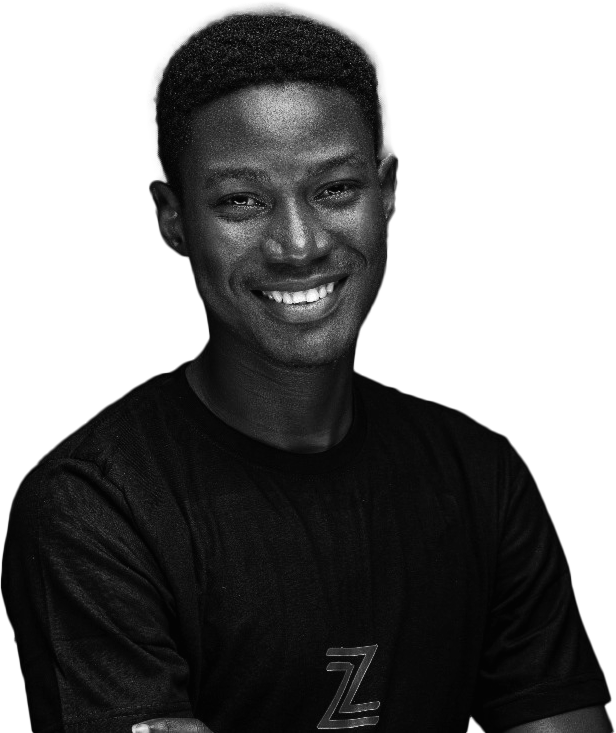
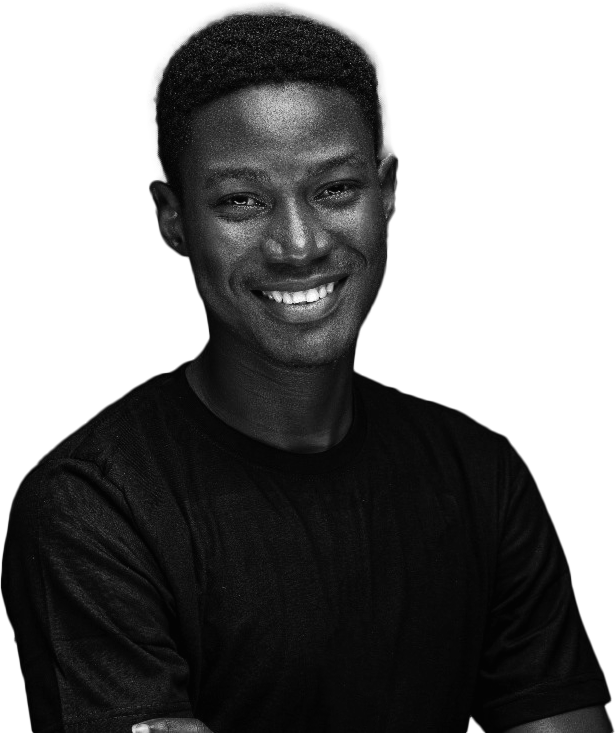
feat add project images
- add image for Zeeh Africa
- add image for Pilkings
- add image for Konectin
- add View Project Link for Zeeh Africa

Changed region(s): [[0.4935, 0.8704, 0.6169, 1.0]]

diff --git a/index.html b/index.html
@@ -149,7 +149,7 @@
                 <!-- Card 1: image left, info right -->
                 <div class="project-card">
                     <div class="project-img-wrap">
-                        <div class="project-img-placeholder"></div>
+                        <img src="assets/images/Zeeh Africa.png" alt="Zeeh Africa project screenshot" class="project-img">
                     </div>
                     <div class="project-info">
                         <h3 class="project-name">Zeeh Africa</h3>
@@ -165,6 +165,7 @@
                         </p>
                         <div class="project-ctas">
                             <button class="btn-project" data-project="zeeh">View Case Study &#8599;&#xFE0E;</button>
+                            <a href="https://zeeh.africa" class="btn-project" target="_blank" rel="noopener noreferrer">View Project &#8599;&#xFE0E;</a>
                         </div>
                     </div>
                 </div>
@@ -172,7 +173,7 @@
                 <!-- Card 2: info left, image right -->
                 <div class="project-card project-card--reverse">
                     <div class="project-img-wrap">
-                        <div class="project-img-placeholder"></div>
+                        <img src="assets/images/Konectin.png" alt="Konectin project screenshot" class="project-img">
                     </div>
                     <div class="project-info">
                         <h3 class="project-name">Konectin</h3>
@@ -265,7 +266,7 @@
                 <!-- Card 6: info left, image right -->
                 <div class="project-card project-card--reverse">
                     <div class="project-img-wrap">
-                        <div class="project-img-placeholder"></div>
+                        <img src="assets/images/Pilkings.png" alt="Pilkings project screenshot" class="project-img">
                     </div>
                     <div class="project-info">
                         <h3 class="project-name">Pilkings</h3>
